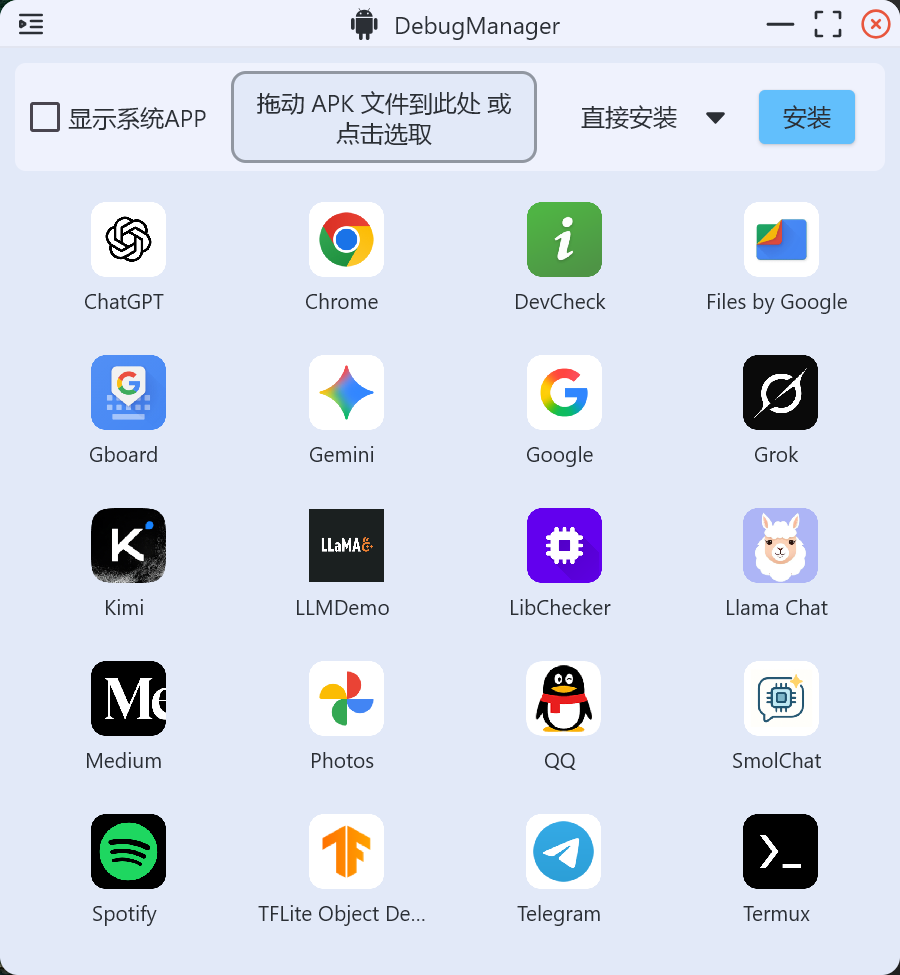
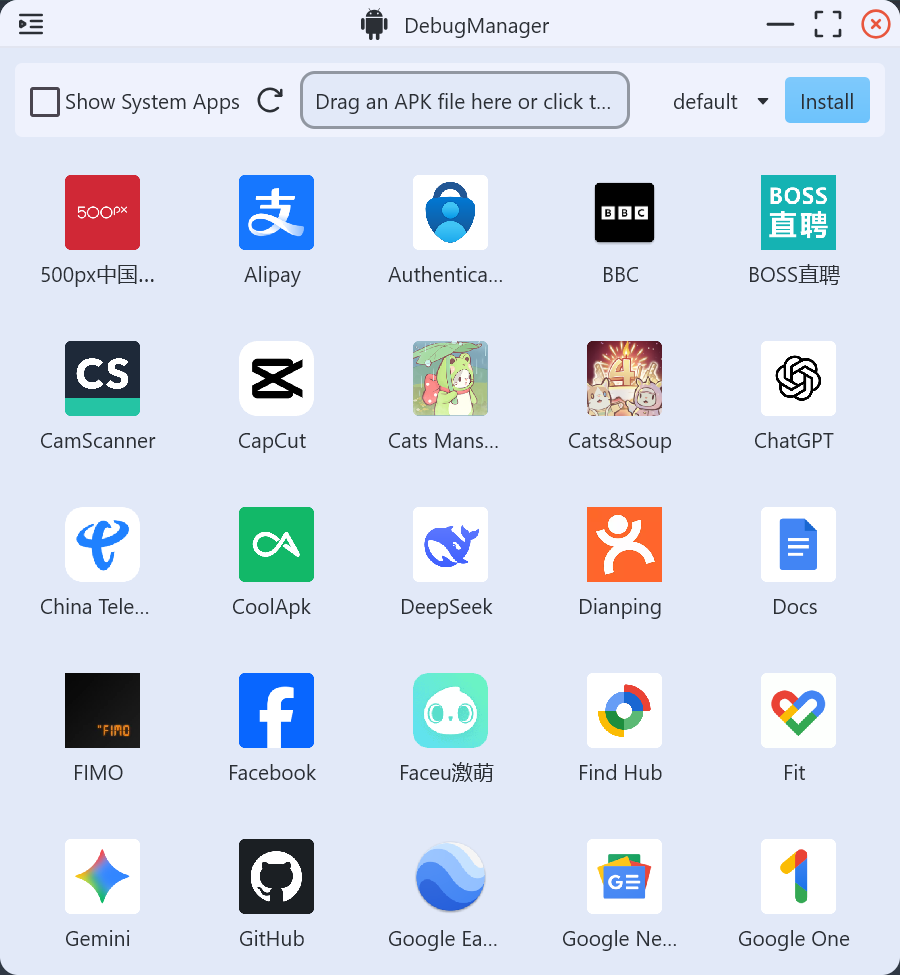
docs: Update README with multilingual description and screenshots

diff --git a/README.md b/README.md
@@ -129,6 +129,14 @@ Starting from version 2.4.0, a multi-window mechanism has been introduced. If an
 
 ![](/screenshots/blogs_multi_window_singleinstance.png)
 
+
+### Multi-language Support
+Starting from version 2.6.0, multilingual support has been added. It currently includes Chinese, English, Russian, Hindi, Spanish, French, German, Korean, Japanese, and Arabic.
+
+![](/screenshots/blogs_debugmanager_multilang.png)
+
+![](/screenshots/blogs_debugmanager_hindi.png)
+
 ### Open-Source Libraries Used
 
 1. [AYA Server](https://github.com/liriliri/aya) The previous method for retrieving app icons involved installing an APK and launching a service, which required dealing with permission issues. Using the AYA Server, a DEX file is pushed to the device to hook system services, which then starts as a Linux process to store the icons.
